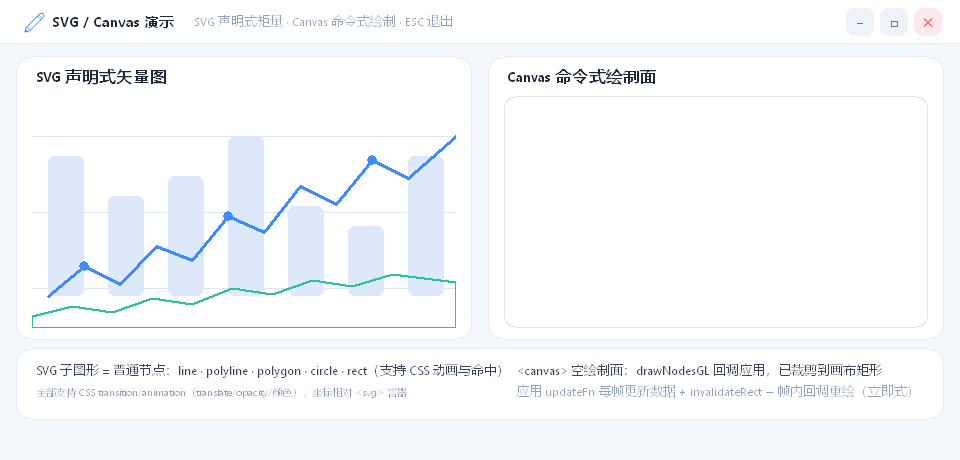
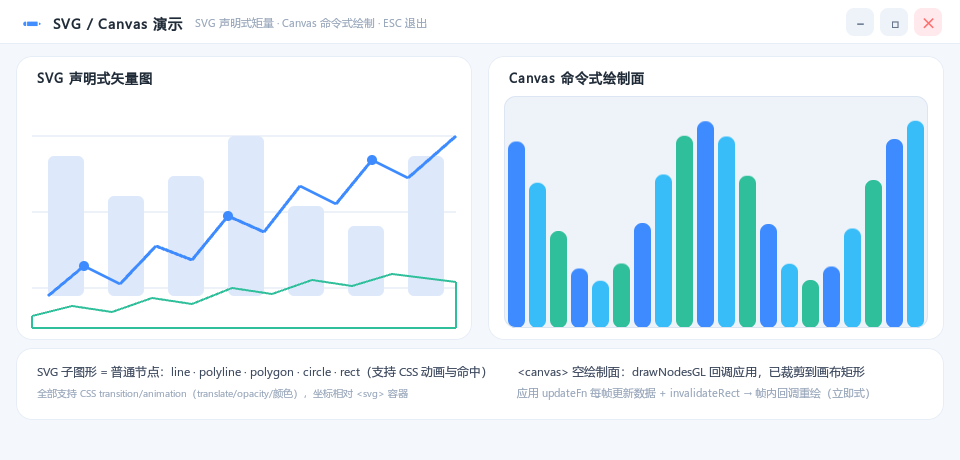
示例图补 3D：cubedemo / texturedemo / svgdemo 换成 GL 真机截屏，README 顶部加第四格
- 离屏渲染（GDI）跑不到应用的 drawFn，cubedemo 的立方体、texturedemo 的程序化纹理、
  svgdemo 的 canvas 频谱在离屏图里都是空的（之前的 docs/img/cubedemo.png 就是一张空白画布 +
  几根 SVG 辅助线）。这三张改成真机截屏，docs/README 注明来源和重出方式（启动示例后抓窗口）。
- README 顶部加第四格「3D 渲染（examples/cubedemo）」，并注明它是真机截屏、其余三张是离屏渲染
  —— 立方体是应用在 <canvas> 回调里用 fillLine 画的，离屏渲染拿不到。
- cubedemo 的 canvas 提示文案改掉：真机截图里原来那句"上面是空的"会显得错位，改成
  "立方体是 canvas 回调逐帧画的；离屏渲染跑不到 drawFn，只会画出周围这些辅助线"。
- 验证：check_examples 11 个 UI 0 问题；make all 0 警告。

diff --git a/examples/cubedemo/main.html b/examples/cubedemo/main.html
@@ -29,7 +29,7 @@
             <line x1="120" y1="330" x2="300" y2="250" stroke="#EAF0F8" stroke-width="1"/>
             <line x1="716" y1="330" x2="536" y2="250" stroke="#EAF0F8" stroke-width="1"/>
         </svg>
-        <span class="note" style="position:absolute; left:16; top:486; width:836; height:16">运行后这里有一个持续旋转的线框立方体；离屏截图跑不到应用的 drawFn，所以上面是空的</span>
+        <span class="note" style="position:absolute; left:16; top:486; width:836; height:16">立方体是 canvas 回调逐帧画的；离屏渲染跑不到 drawFn，只会画出周围这些辅助线</span>
     </div>
 
     <!-- 状态条 -->

diff --git a/docs/README.md b/docs/README.md
@@ -24,9 +24,9 @@
 | [img/std-components.png](img/std-components.png) | `components/preview.html` 的离屏渲染（标准组件库全览） |
 | [img/animshow.png](img/animshow.png) | `examples/animshow` 的离屏渲染（关键帧 / 过渡；静态呈现，动态需真实运行） |
 | [img/fontshow.png](img/fontshow.png) | `examples/fontshow` 的离屏渲染（字号 / 字重 / 斜体 / 行高 / 文字装饰 + ⑤ 输入法区；组字串与候选框是运行时行为，静态图里看不到） |
-| [img/svgdemo.png](img/svgdemo.png) | `examples/svgdemo` 的离屏渲染（`<svg>` 矢量；`<canvas>` 需真实 GL 窗口才有内容） |
-| [img/cubedemo.png](img/cubedemo.png) | `examples/cubedemo` 的离屏渲染（线框立方体；三角面同样需真实 GL 窗口） |
-| [img/texturedemo.png](img/texturedemo.png) | `examples/texturedemo` 的离屏渲染（程序化纹理多尺寸采样） |
+| [img/svgdemo.png](img/svgdemo.png) | `examples/svgdemo` 的**GL 真机截屏**（`<svg>` 矢量 + `<canvas>` 频谱；canvas 内容离屏渲染看不到） |
+| [img/cubedemo.png](img/cubedemo.png) | `examples/cubedemo` 的**GL 真机截屏**（应用自己算顶点/投影、用 `fillLine` 画的线框立方体；离屏渲染只有空画布） |
+| [img/texturedemo.png](img/texturedemo.png) | `examples/texturedemo` 的**GL 真机截屏**（`updateImageRaw` 每帧上传的程序化纹理多尺寸采样；离屏渲染拿不到运行时纹理） |
 | [img/python-binding.png](img/python-binding.png) | Python 绑定演示界面（`bindings/python/demo_ui.html`） |
 | [img/go-binding.png](img/go-binding.png) | Go 绑定演示界面（`bindings/go/demo/ui.html`） |
 | [img/rust-binding.png](img/rust-binding.png) | Rust 绑定演示界面（`bindings/rust/ui.html`） |
@@ -36,11 +36,15 @@
 | [font_hinting_modes.png](font_hinting_modes.png) | `BINUI_FONT_HINT=0\|1\|2` 三种 hinting 模式对比 |
 
 > 绑定演示图为什么是离屏渲染：OpenGL 窗口的内容抓不到（`PrintWindow` 对双缓冲 GL
-> 窗口返回全黑，`BitBlt` 只能抓被遮挡后合成到桌面的部分）。所以演示图一律走
+> 窗口返回全黑，`BitBlt` 只能抓被遮挡后合成到桌面的部分）。所以大部分演示图走
 > `tools/offscreen_render` 的 GDI 路径 —— 同一份 HTML、同一套布局引擎，界面一样，
 > 但 `<canvas>` 里由应用自己画的内容不会出现。
+>
+> 因此 **svgdemo / cubedemo / texturedemo 三张改用 GL 真机截屏**：它们的画布内容是应用在
+> `drawFn` 里逐帧画的（立方体、频谱、程序化纹理），离屏渲染只能得到空画布。截屏用
+> `tools/window_capture` 或 `build-mingw/tmp/drive.ps1 -Action shot`，抓窗口矩形即可。
 
-改完示例 UI 后重出这几张图（`make tools` 之后，一张一条命令）：
+改完示例 UI 后重出这些图（`make tools` 之后，一张一条命令）：
 
 ```sh
 B=build-mingw/bin/offscreen_render.exe
@@ -49,11 +53,9 @@ $B examples/buttonshow/main.html docs/img/buttonshow.png
 $B examples/features/main.html docs/img/features.png
 $B examples/animshow/main.html docs/img/animshow.png
 $B examples/fontshow/main.html docs/img/fontshow.png
-$B examples/svgdemo/main.html docs/img/svgdemo.png
-$B examples/cubedemo/main.html docs/img/cubedemo.png
-$B examples/texturedemo/main.html docs/img/texturedemo.png
 $B components/preview.html docs/img/std-components.png
 $B --default docs/img/default-layout.png
+# svgdemo / cubedemo / texturedemo 需要启动示例后真机截屏（见上面说明）
 ```
 
 ## 相关外部文档

diff --git a/README.md b/README.md
@@ -11,12 +11,13 @@
 
 > 前身 `.xec`（含打包器 xecpack、加载器 xecrun 与动态加载层）已评估砍除——那层对多数场景是负资产；**保留并重构了真正有价值的部分：UI 编译、解析与渲染内核**。项目现名为 **binUI**，与二进制布局格式同名。
 
-| 自适应布局（`examples/flexshow`） | 按钮与状态样式（`examples/buttonshow`） | 动画与过渡（`examples/animshow`） |
-|---|---|---|
-| ![自适应布局](docs/img/flexshow.png) | ![按钮样式](docs/img/buttonshow.png) | ![动画](docs/img/animshow.png) |
+| 自适应布局（`examples/flexshow`） | 按钮与状态样式（`examples/buttonshow`） | 动画与过渡（`examples/animshow`） | 3D 渲染（`examples/cubedemo`） |
+|---|---|---|---|
+| ![自适应布局](docs/img/flexshow.png) | ![按钮样式](docs/img/buttonshow.png) | ![动画](docs/img/animshow.png) | ![3D](docs/img/cubedemo.png) |
 
-> 三张图都是 `tools/offscreen_render` 从 `examples/` 当前源码离屏渲染出来的真实布局（GDI 后端），不是设计稿；
-> 其余示例（features / fontshow / svgdemo / cubedemo / texturedemo / 组件库）的截图见
+> 前三张是 `tools/offscreen_render` 从当前源码离屏渲染的真实布局（GDI 后端）；第四张是 GL 真机截屏
+> —— 立方体是应用在 `<canvas>` 回调里用 `fillLine` 画的，离屏渲染跑不到那段代码。
+> 其余示例（features / fontshow / svgdemo / texturedemo / 组件库）的截图见
 > [`docs/README.md`](docs/README.md#图片)，重出命令也在那里。
 
 ## 目录结构

diff --git a/CHANGELOG.md b/CHANGELOG.md
@@ -12,9 +12,12 @@
   动画截图，而"默认布局"只是引擎兜底布局（不是示例），观感像很久以前的东西。
 - 换成 8 组示例里最有代表性的三张：**flexshow**（自适应布局）、**buttonshow**（按钮与状态样式）、
   **animshow**（动画与过渡），全部用 `tools/offscreen_render` 从**当前源码**重出。
-- 新增 `docs/img/flexshow.png`、`docs/img/buttonshow.png`；顺手重出 animshow / svgdemo / cubedemo /
-  texturedemo / 组件库预览；`docs/README.md` 图片表补上这两行，并加了"改完示例 UI 怎么重出这些图"
-  的命令清单（`make tools` 后一张一条）。
+- 新增 `docs/img/flexshow.png`、`docs/img/buttonshow.png`；顺手重出 animshow / 组件库预览；
+  `docs/README.md` 图片表补上这两行，并加了"改完示例 UI 怎么重出这些图"的命令清单
+  （`make tools` 后一张一条）。
+- **3D / 纹理 / SVG 画布三张改成 GL 真机截屏**：cubedemo 的立方体、texturedemo 的程序化纹理、
+  svgdemo 的 canvas 频谱都是应用在 `drawFn` 里逐帧画的，离屏渲染只能得到空画布 —— 之前
+  `docs/img/cubedemo.png` 就是一张"画布空白"的图，README 顶部也补了第四格 3D 线框（真机截屏并注明）。
 - flexshow 状态栏的占位文案从「窗口 —」改成默认窗口尺寸（运行时仍由 resize 事件覆盖），
   离屏图/截图不再出现"—"。
 - 修默认布局（`GenerateDefaultBinUI()`）按钮文字变左对齐：手写节点漏了 `BINUI_TEXT_CENTER`，
